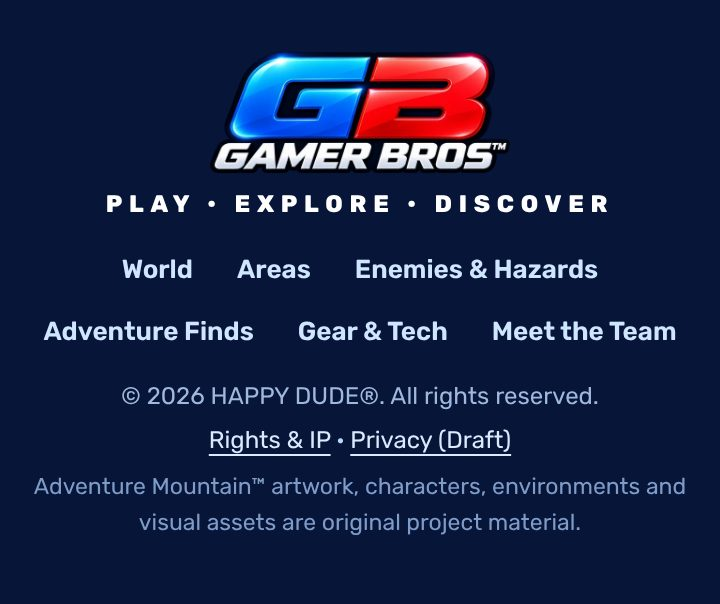
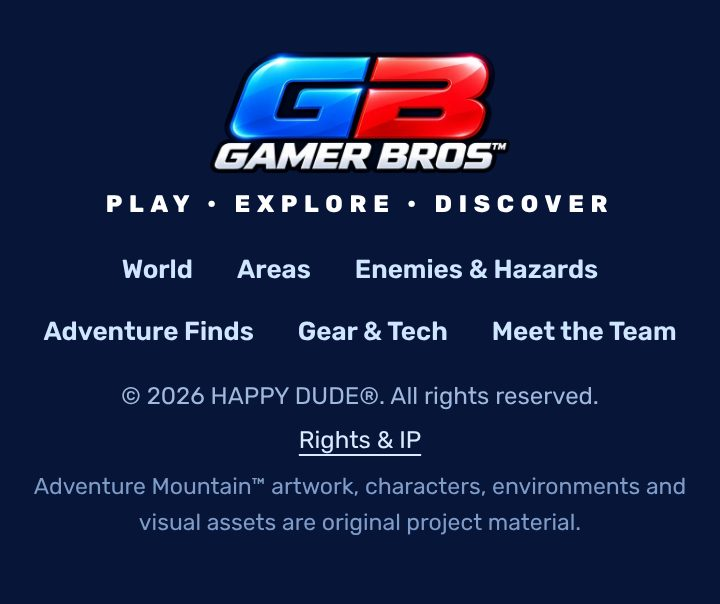
Stage 1: dev-pipeline output for staging/, release docs, character QA
- staging/ now equals the output of the dev source pipeline (revision.py stamps), so main and dev agree
- rights.html favicon (removed a 404 on that page); gb-logo-clean.png dropped from staging (webp is bit-identical to the source rows)
- docs/STAGE1_RELEASE_2026-10-11.md: how publish.py would have overwritten these fixes and what was done
- tools/qa/characters.py: character pages, team navigation, footer, logo at six viewports

Claude-Session: https://claude.ai/code/session_017A53mDXnXo29nLLQCmpHw4

Changed region(s): [[0.275, 0.7152, 0.7333, 0.7748]]

diff --git a/staging/media-manifest.js b/staging/media-manifest.js
@@ -290,18 +290,6 @@ window.GB_MEDIA = {
   "rev": "21fcd58e0b",
   "srev": "f84ad079f6"
  },
- "assets/brand/gb-logo-clean": {
-  "w": 640,
-  "h": 260,
-  "band": 0,
-  "sw": 640,
-  "sh": 260,
-  "sband": 0,
-  "alpha": true,
-  "master": "gb-logo.png",
-  "rev": "e5b2caf9fd",
-  "srev": "e5b2caf9fd"
- },
  "assets/brand/gb-logo": {
   "w": 640,
   "h": 258,
@@ -313,6 +301,19 @@ window.GB_MEDIA = {
   "master": "gb-logo.png",
   "rev": "90580b9bae",
   "srev": "40182d5678"
+ },
+ "assets/brand/gb-logo-clean": {
+  "w": 640,
+  "h": 260,
+  "band": 0,
+  "sw": 640,
+  "sh": 260,
+  "sband": 0,
+  "alpha": true,
+  "master": "gb-logo.png",
+  "rev": "e5b2caf9fd",
+  "srev": "e5b2caf9fd",
+  "noSmall": true
  },
  "assets/characters/blue-red-high-five": {
   "w": 1088,
@@ -710,61 +711,61 @@ window.GB_MEDIA = {
   "rev": "409ff2ce45",
   "srev": "86333ff2b4"
  },
- "assets/entities/brightback-v1-hero": {
-   "w": 701,
-   "h": 573,
-   "band": 0,
-   "sw": 701,
-   "sh": 573,
-   "sband": 0,
-   "alpha": false,
-   "master": "Brightback_V1_Preferred__hero_preferred_scene.png",
-   "rev": "cf6e698826b4",
-   "srev": "cf6e698826b4",
-   "ext": "png",
-   "noSmall": true
- },
- "assets/entities/brightback-v1-turnaround": {
-   "w": 802,
-   "h": 187,
-   "band": 0,
-   "sw": 802,
-   "sh": 187,
-   "sband": 0,
-   "alpha": false,
-   "master": "Brightback_V1_Preferred__turnaround_row.png",
-   "rev": "d8b3fa8badfd",
-   "srev": "d8b3fa8badfd",
-   "ext": "png",
-   "noSmall": true
- },
  "assets/entities/brightback-v1-face": {
-   "w": 471,
-   "h": 316,
-   "band": 0,
-   "sw": 471,
-   "sh": 316,
-   "sband": 0,
-   "alpha": false,
-   "master": "Brightback_V1_Preferred__face_chest_detail.png",
-   "rev": "52400193761f",
-   "srev": "52400193761f",
-   "ext": "png",
-   "noSmall": true
+  "w": 471,
+  "h": 316,
+  "band": 0,
+  "sw": 471,
+  "sh": 316,
+  "sband": 0,
+  "alpha": false,
+  "master": "Brightback_V1_Preferred__face_chest_detail.png",
+  "rev": "57cd03d8c8",
+  "srev": "57cd03d8c8",
+  "ext": "png",
+  "noSmall": true
  },
  "assets/entities/brightback-v1-hand": {
-   "w": 308,
-   "h": 317,
-   "band": 0,
-   "sw": 308,
-   "sh": 317,
-   "sband": 0,
-   "alpha": false,
-   "master": "Brightback_V1_Preferred__hand_shard_detail.png",
-   "rev": "ec2b32f1a716",
-   "srev": "ec2b32f1a716",
-   "ext": "png",
-   "noSmall": true
+  "w": 308,
+  "h": 317,
+  "band": 0,
+  "sw": 308,
+  "sh": 317,
+  "sband": 0,
+  "alpha": false,
+  "master": "Brightback_V1_Preferred__hand_shard_detail.png",
+  "rev": "0e3024e02d",
+  "srev": "0e3024e02d",
+  "ext": "png",
+  "noSmall": true
+ },
+ "assets/entities/brightback-v1-hero": {
+  "w": 701,
+  "h": 573,
+  "band": 0,
+  "sw": 701,
+  "sh": 573,
+  "sband": 0,
+  "alpha": false,
+  "master": "Brightback_V1_Preferred__hero_preferred_scene.png",
+  "rev": "e776e9721f",
+  "srev": "e776e9721f",
+  "ext": "png",
+  "noSmall": true
+ },
+ "assets/entities/brightback-v1-turnaround": {
+  "w": 802,
+  "h": 187,
+  "band": 0,
+  "sw": 802,
+  "sh": 187,
+  "sband": 0,
+  "alpha": false,
+  "master": "Brightback_V1_Preferred__turnaround_row.png",
+  "rev": "269cda3a4e",
+  "srev": "269cda3a4e",
+  "ext": "png",
+  "noSmall": true
  },
  "assets/entities/claw-bot-alert": {
   "w": 186,

diff --git a/staging/index.html b/staging/index.html
@@ -2,9 +2,9 @@
 <html lang="en">
 <head>
 <meta charset="utf-8">
-<meta name="gb-revision" content="r-d1e8c15f">
+<meta name="gb-revision" content="r-987b758f">
 <script id="gbFresh">/* reload once if a newer staging build exists (HTML may be cached up to ~10 min) */
-(function(){var R="r-d1e8c15f";try{fetch("revision.json?t="+Date.now(),{cache:"no-store"}).then(function(r){return r.ok?r.json():null}).then(function(j){if(!j||!j.revision||j.revision===R)return;var k="gb-rev-reload",d=null;try{d=sessionStorage.getItem(k)}catch(e){}if(d===j.revision)return;try{sessionStorage.setItem(k,j.revision)}catch(e){}var u=new URL(location.href);u.searchParams.set("r",j.revision);location.replace(u.toString())}).catch(function(){})}catch(e){}})();
+(function(){var R="r-987b758f";try{fetch("revision.json?t="+Date.now(),{cache:"no-store"}).then(function(r){return r.ok?r.json():null}).then(function(j){if(!j||!j.revision||j.revision===R)return;var k="gb-rev-reload",d=null;try{d=sessionStorage.getItem(k)}catch(e){}if(d===j.revision)return;try{sessionStorage.setItem(k,j.revision)}catch(e){}var u=new URL(location.href);u.searchParams.set("r",j.revision);location.replace(u.toString())}).catch(function(){})}catch(e){}})();
 </script>
 <meta name="viewport" content="width=device-width,initial-scale=1,viewport-fit=cover">
 <meta name="theme-color" content="#0b2a6b">
@@ -16,7 +16,7 @@
 <link rel="icon" href="assets/brand/gb-logo-clean.webp?v=e5b2caf9fd">
 <link rel="preload" href="assets/fonts/rubik-latin.woff2?v=ea3f56e306" as="font" type="font/woff2" crossorigin>
 <link rel="preload" href="assets/fonts/rubik-italic-latin.woff2?v=0f2553fa1f" as="font" type="font/woff2" crossorigin>
-<link rel="stylesheet" href="staging.css?v=d1e8c15f">
+<link rel="stylesheet" href="staging.css?v=4b999fb689">
 </head>
 <body>
 <svg width="0" height="0" style="position:absolute" aria-hidden="true">
@@ -316,18 +316,18 @@
   <p class="site-foot__legal">© 2026 HAPPY DUDE®. All rights reserved.</p>
   <p class="site-foot__links"><a href="rights.html">Rights &amp; IP</a></p>
   <p class="site-foot__note">Adventure Mountain™ artwork, characters, environments and visual assets are original project material.</p>
-  <p class="site-foot__build" hidden>Build <span id="gbRev">r-d1e8c15f</span></p>
+  <p class="site-foot__build" hidden>Build <span id="gbRev">r-987b758f</span></p>
 </footer>
 
 <div class="toast" id="steamNote" role="status" aria-live="polite">Steam store page coming soon.</div>
 
-<script src="media-manifest.js?v=d1e8c15f" defer></script>
+<script src="media-manifest.js?v=3702ce7d0c" defer></script>
 <script src="areas.js?v=1592baf40a" defer></script>
-<script src="entities.js?v=d1e8c15f" defer></script>
+<script src="entities.js?v=671e537776" defer></script>
 <script src="world-data.js?v=4e4c3357aa" defer></script>
 <script src="panorama-manifest.js?v=f6156987ce" defer></script>
 <script src="world.js?v=4380a116fd" defer></script>
 <script src="characters.js?v=1d73531302" defer></script>
-<script src="staging.js?v=d1e8c15f" defer></script>
+<script src="staging.js?v=f2efea8446" defer></script>
 </body>
 </html>

diff --git a/staging/rights.html b/staging/rights.html
@@ -2,6 +2,7 @@
 <html lang="en"><head><meta charset="utf-8"><meta name="viewport" content="width=device-width,initial-scale=1">
 <meta name="robots" content="noindex,nofollow"><title>Rights & Intellectual Property | GB GAMER BROS™</title>
 <meta name="description" content="Brand and rights information for GB GAMER BROS™ and ADVENTURE MOUNTAIN™ by HAPPY DUDE®.">
+<link rel="icon" href="assets/brand/gb-logo-clean.webp">
 <meta name="author" content="HAPPY DUDE®">
 <meta name="copyright" content="© 2026 HAPPY DUDE®. All rights reserved.">
 <script type="application/ld+json">{"@context":"https://schema.org","@type":"WebPage","name":"Rights & Intellectual Property | GB GAMER BROS™","description":"Brand ownership, attribution and authorized-use information for GB GAMER BROS™ and ADVENTURE MOUNTAIN™.","publisher":{"@type":"Organization","name":"HAPPY DUDE®","url":"https://happydude.ca/"},"copyrightYear":2026,"creditText":"A HAPPY DUDE® Original","usageInfo":"https://gb.happydude.ca/staging/rights.html"}</script>

diff --git a/tools/qa/characters.py b/tools/qa/characters.py
@@ -1,0 +1,81 @@
+#!/usr/bin/env python3
+"""Character pages, Meet the Team navigation, footer/rights links and the logo, at six viewports.
+    python3 tools/qa/characters.py http://localhost:8765/staging/ [out_dir]
+Asserts (non-zero exit on failure): no console/page errors, no failed requests, no broken images, no horizontal overflow,
+every character x look x view opens and swaps the stage image, prev/next character links work, team arrows move the rail,
+Close works, footer text is exact, no Privacy link, rights.html loads, header/footer logo is the clean file and fully rendered."""
+import sys, asyncio, os
+from playwright.async_api import async_playwright
+BASE = sys.argv[1]; OUT = sys.argv[2] if len(sys.argv) > 2 else None
+CHROME = os.environ.get("GB_CHROMIUM", "/opt/pw-browsers/chromium-1194/chrome-linux/chrome")
+VPS = [("m360", 360, 740, 3), ("m390", 390, 844, 3), ("land844", 844, 390, 2), ("land932", 932, 430, 2), ("tab768", 768, 1024, 2), ("desk1280", 1280, 800, 1)]
+NOTICE = "© 2026 HAPPY DUDE®. All rights reserved."
+fails = []
+
+async def main():
+    if OUT: os.makedirs(OUT, exist_ok=True)
+    async with async_playwright() as p:
+        b = await p.chromium.launch(executable_path=CHROME, args=["--no-sandbox"])
+        for name, w, h, dpr in VPS:
+            ctx = await b.new_context(viewport={"width": w, "height": h}, device_scale_factor=dpr)
+            pg = await ctx.new_page(); errs = []
+            pg.on("pageerror", lambda e: errs.append("pageerror " + str(e)))
+            pg.on("console", lambda m: errs.append("console " + m.text) if m.type == "error" else None)
+            pg.on("response", lambda r: errs.append(f"http{r.status} {r.url}") if r.status >= 400 else None)
+            await pg.goto(BASE, wait_until="networkidle"); await pg.wait_for_timeout(500)
+            def chk(c, msg):
+                if not c: fails.append(f"[{name}] {msg}")
+            chk(await pg.evaluate("document.documentElement.scrollWidth-innerWidth") <= 0, "horizontal overflow on home")
+            chk((await pg.inner_text(".site-foot__legal")).strip() == NOTICE, "footer notice not exact")
+            foot = await pg.inner_text("footer.site-foot")
+            chk("Privacy" not in foot and "Draft" not in foot, "footer still mentions Privacy/Draft")
+            chk(await pg.evaluate("[...document.querySelectorAll('a')].every(a=>!/privacy/i.test(a.getAttribute('href')||''))"), "a link to privacy remains")
+            for sel in (".brand img", ".site-foot__logo img"):
+                d = await pg.evaluate(f"(()=>{{const i=document.querySelector('{sel}');const r=i.getBoundingClientRect();return {{src:i.currentSrc,nw:i.naturalWidth,nh:i.naturalHeight,ok:i.complete&&i.naturalWidth>0,box:i.parentElement.getBoundingClientRect().height,img:r.height}}}})()")
+                chk("gb-logo-clean.webp" in d["src"] and d["ok"] and (d["nw"], d["nh"]) == (640, 260), f"{sel}: wrong/failed logo {d}")
+                chk(d["box"] >= d["img"] - 1.5, f"{sel}: logo frame clips the image (frame {d['box']:.1f} < img {d['img']:.1f})")
+            # Meet the Team: rail arrows (phones) + every character route / look / view
+            ids = await pg.evaluate("[...document.querySelectorAll('[data-character]')].map(a=>a.dataset.character)")
+            chk(len(ids) == 4, f"expected 4 team cards, got {ids}")
+            nxt = await pg.query_selector('[data-team="1"]')
+            if nxt and await nxt.is_visible():
+                before = await pg.evaluate("document.getElementById('teamList').scrollLeft")
+                await nxt.click(); await pg.wait_for_timeout(700)
+                chk(await pg.evaluate("document.getElementById('teamList').scrollLeft") > before, "team next arrow did not move the rail")
+            for cid in ids:
+                card = await pg.query_selector(f'[data-character="{cid}"]')
+                await card.scroll_into_view_if_needed(); await card.click(); await pg.wait_for_timeout(600)
+                chk(await pg.evaluate("document.getElementById('charView').open"), f"{cid}: dialog did not open from the team card")
+                looks = await pg.evaluate("[...document.querySelectorAll('[data-char-look]')].map(b=>b.dataset.charLook)")
+                chk(len(looks) >= 1, f"{cid}: no looks")
+                for lk in looks:
+                    await pg.click(f'[data-char-look="{lk}"]'); await pg.wait_for_timeout(250)
+                    n = await pg.evaluate("document.querySelectorAll('[data-char-view]').length")
+                    seen = set()
+                    for i in range(n):
+                        await pg.click(f'[data-char-view="{i}"]'); await pg.wait_for_timeout(120)
+                        s = await pg.evaluate("(()=>{const i=document.querySelector('#charStageFig img');return i?i.currentSrc+'|'+i.naturalWidth:''})()")
+                        chk(s and not s.endswith("|0"), f"{cid}/{lk}/view{i}: stage image missing/broken"); seen.add(s)
+                    chk(len(seen) >= max(1, n - 1), f"{cid}/{lk}: views do not change the stage image ({len(seen)}/{n})")
+                bad = await pg.evaluate("[...document.querySelectorAll('#charView img')].filter(i=>i.complete&&i.naturalWidth===0&&i.offsetParent!==null).map(i=>i.src)")
+                chk(not bad, f"{cid}: broken images {bad}")
+                chk(await pg.evaluate("document.documentElement.scrollWidth-innerWidth") <= 0, f"{cid}: horizontal overflow")
+                if OUT and cid == ids[0]: await pg.screenshot(path=f"{OUT}/{name}_character_{cid}.png")
+                links = await pg.evaluate("[...document.querySelectorAll('[data-char-link]')].map(a=>a.dataset.charLink)")
+                other = [l for l in links if l != cid][0]
+                await pg.click(f'[data-char-link="{other}"]'); await pg.wait_for_timeout(500)
+                chk(await pg.evaluate("document.getElementById('charName').textContent.length>0") and (await pg.evaluate("location.hash")).endswith(other), f"{cid}->{other}: character link navigation failed")
+                await pg.click("#charClose"); await pg.wait_for_timeout(400)
+                chk(not await pg.evaluate("document.getElementById('charView').open"), f"{cid}: Close did not close the dialog")
+            # Rights page
+            await pg.goto(BASE + "rights.html", wait_until="networkidle")
+            chk(NOTICE in await pg.inner_text("body"), "rights.html: notice missing")
+            chk(await pg.evaluate("document.documentElement.scrollWidth-innerWidth") <= 0, "rights.html overflow")
+            if OUT: await pg.screenshot(path=f"{OUT}/{name}_rights.png", full_page=True)
+            for e in sorted(set(errs)): fails.append(f"[{name}] {e}")
+            await ctx.close()
+        await b.close()
+    if fails:
+        print("FAILED:"); [print(" -", f) for f in fails]; sys.exit(1)
+    print("characters/navigation/footer/logo QA passed at", ", ".join(v[0] for v in VPS))
+asyncio.run(main())

diff --git a/docs/STAGE1_RELEASE_2026-10-11.md b/docs/STAGE1_RELEASE_2026-10-11.md
@@ -1,0 +1,27 @@
+# Stage 1 release — reconciliation with the dev source (2026-10-11)
+
+## How staging is really published
+`staging/` on `main` is **generated**. The authoritative source is the branch `ccr-aefb96a7-5w3hgh` (its `staging/` folder plus `staging/tools/`).
+`staging/tools/publish.py` builds a worktree from `origin/main`, deletes `staging/` and replaces it wholesale with the dev branch's public files
+(no `*.md`, no `tools/`), then pushes straight to `main`. Consequences found:
+
+| Finding | Effect of the next publish |
+|---|---|
+| Dev's public files were byte-identical to main at `e1bcd55` (460/460 files) | Every later main-only change is erased |
+| Owner commits `fdf948a` (unified Enemies & Hazards cards) and `76dc8e2` (Brightback V1) exist only on main | Brightback and the unified cards would disappear |
+| All Stage 1 corrections exist only on the QA branch | Footer, logo, Meet the Team fix, apex card, evolution layout would be reverted |
+| `staging/rights.html` is not in dev | Deleted (the whole folder is replaced) |
+| `revision.py` crashed on the Brightback manifest entries (`.png`, no `-960` variant) | Publishing from dev would have **failed outright** |
+| `gbmedia.py` hard-codes the old notice (`NOTICE`, `CREATOR`, band text) | Any rebuilt image gets the old "GB Gamer Bros™ x Happy Dude®" band/metadata again |
+
+## What was done (branch `dev-port-stage1-2026-10-11`, based on `ccr-aefb96a7-5w3hgh`; pushed, not merged)
+1. Applied the full `staging/` delta (`e1bcd55` → Stage 1) to the dev source, which carries the owner's main-only commits and the QA corrections.
+2. `revision.py`: honours manifest `ext` / `noSmall`; orphan check respects `ext`.
+3. `check_invariants.py` (same file as `tools/check_staging_invariants.py` on main) + hook in `publish.py`: publishing is refused if the build reverts the footer, logo, Brightback card/evolution, team backdrop, re-links a privacy draft, or contains a personal name.
+4. Ran `revision.py`; `publish.py --dry-run` against `origin/main` then listed only the Stage 1 changes (no Brightback or card regressions).
+5. The Stage 1 PR's `staging/` is the **output of that dev pipeline** (identical files and stamps), so after merge main and dev agree and a publish adds nothing unexpected.
+
+Still true / not solved: `gbmedia.py` text (see below) and anything the generator's owner changes on dev after this. **Rule:** never hand-edit `main/staging`; edit the dev branch, run `revision.py`, publish.
+
+## Not covered by the guard
+Visual regressions (use `tools/qa/*.py`) and the old notice inside the 436 existing raster derivatives: each carries it in its CSS-hidden band and in XMP/EXIF from `gbmedia.py`. Rebuilding those is a Stage 2 pipeline decision (see `docs/STAGE2_IMAGE_PROTECTION_PLAN.md` once written).

diff --git a/docs/CHECKPOINT_2026-10-10_stage1.md b/docs/CHECKPOINT_2026-10-10_stage1.md
@@ -7,11 +7,11 @@ Evidence = real Chromium renders of these files served locally at 360, 390, 768,
 ## Completed in this stage
 | Item | Change | Rendered evidence |
 |---|---|---|
-| Footer | `© 2026 HAPPY DUDE®. All rights reserved.` replaces the old line; plus Rights & IP / Privacy (Draft) links | `docs/qa-2026-10-10/footer_m360_*` |
+| Footer | `© 2026 HAPPY DUDE®. All rights reserved.` replaces the old line; plus a Rights & IP link (the Privacy (Draft) link and page were removed again before release, see STAGE1_RELEASE_2026-10-11.md) | `docs/qa-2026-10-10/footer_m360_*` |
 | Stale notice in rasters | "Meet the Team" backdrop was a raw CSS background that exposed the image's baked old notice on tall crops; now drawn through the `.gbm` clipping frame | `team-backdrop_m390_before/after` |
 | Stale notice in data | `panorama-manifest.js` copyright string updated (it is not rendered anywhere) | — |
-| Clean logo | `assets/brand/gb-logo-clean.{webp,png}`: crop-only (rows 0–259 of 272); verified bit-identical to the source rows, last opaque row 257, nothing below row 259. Header, footer and favicon now use it. Originals untouched. Recipe: `tools/make_clean_logo.py` | `logo_old-vs-clean_*` |
-| Legal pages | `rights.html`, `privacy.html` ported from draft PR #3 (content unchanged) rather than merging that stale branch | — |
+| Clean logo | `assets/brand/gb-logo-clean.webp` (lossless; the PNG was dropped from staging, regenerate with the script): crop-only (rows 0–259 of 272); verified bit-identical to the source rows, last opaque row 257, nothing below row 259. Header, footer and favicon now use it. Originals untouched. Recipe: `tools/make_clean_logo.py` | `logo_old-vs-clean_*` |
+| Legal page | `rights.html` ported from draft PR #3 rather than merging that stale branch (`privacy.html` was NOT shipped) | — |
 | Brightback™ card | Was one narrow grid cell, wordmark cut off (a `grid-column:auto!important` rule beat the apex span). Now a full-width row, hero shown at its own 701:573 ratio (no crop), smaller title | `brightback-card_*` |
 | Evolution sequence | Grouped by phase, each phase labelled once (no repeated "Phase 1"), uniform square thumbnails, no overlap at any tested width; wraps on tablet/landscape, swipe rail on phones; Brightback thumb uses `contain` | `evolution_*` |
 | "In the world" tab | Brightback entry is now labelled "Brightback™ (completed form)" with a REFERENCE badge and the note that no in-world transformation scene is documented; no art invented | `evolution_inworld-reference_m390_after` |
